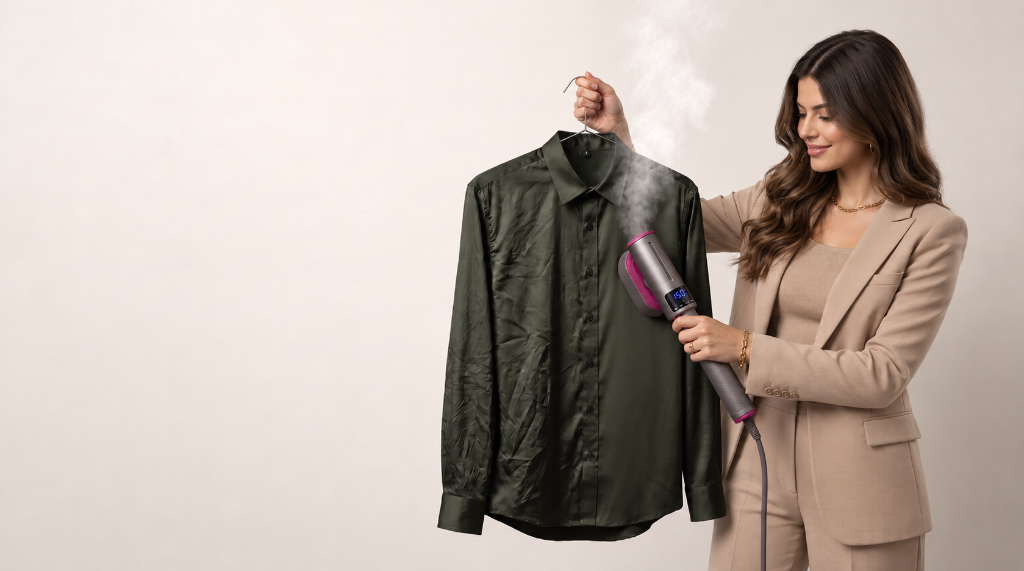
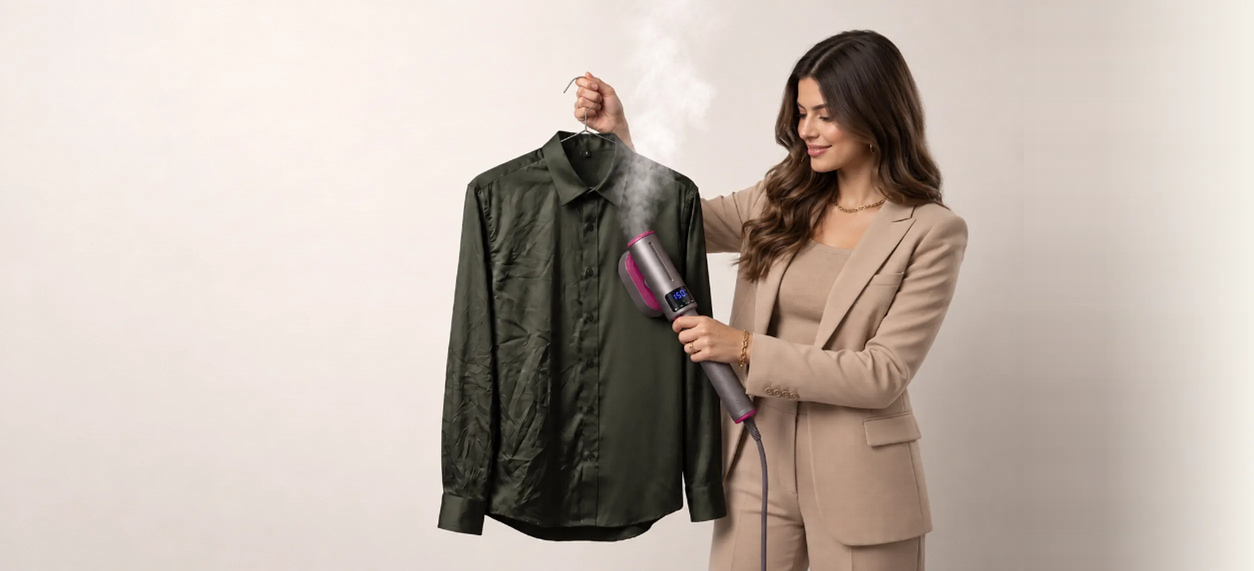
fix(hero): outpaint right studio wall by 460px to naturally position woman left with zero fading on outfit and zero right seam

diff --git a/src/components/sections/HeroSection.tsx b/src/components/sections/HeroSection.tsx
@@ -84,26 +84,26 @@ export const HeroSection: React.FC = () => {
           aria-hidden="true" 
         />
 
-        {/* Layer 3: Product Image Stage with soft integrated bilateral fade */}
+        {/* Layer 3: Product Image Stage with clean left fade and solid extended studio background on the right */}
         <div 
-          className="pointer-events-none absolute right-0 top-0 bottom-0 w-full lg:w-[61%] xl:w-[57%] 2xl:w-[54%] z-10 hidden lg:flex items-center justify-end overflow-hidden"
+          className="pointer-events-none absolute right-0 top-0 bottom-0 w-full lg:w-[60%] xl:w-[56%] 2xl:w-[53%] z-10 hidden lg:flex items-center justify-end overflow-hidden"
           style={{
-            maskImage: 'linear-gradient(to right, transparent 0%, rgba(0,0,0,0.4) 8%, black 22%, black 86%, rgba(0,0,0,0.4) 96%, transparent 100%)',
-            WebkitMaskImage: 'linear-gradient(to right, transparent 0%, rgba(0,0,0,0.4) 8%, black 22%, black 86%, rgba(0,0,0,0.4) 96%, transparent 100%)',
+            maskImage: 'linear-gradient(to right, transparent 0%, rgba(0,0,0,0.5) 12%, black 28%)',
+            WebkitMaskImage: 'linear-gradient(to right, transparent 0%, rgba(0,0,0,0.5) 12%, black 28%)',
           }}
         >
-          <picture className="w-[calc(100%+6rem)] lg:w-[calc(100%+8rem)] xl:w-[calc(100%+10rem)] 2xl:w-[calc(100%+12rem)] h-full block transform scale-[1.06] -translate-x-5 lg:-translate-x-8 xl:-translate-x-12 2xl:-translate-x-16 origin-[82%_45%]">
+          <picture className="w-full h-full block transform scale-[1.05] origin-[70%_45%]">
             <source 
-              srcSet="/images/hero-steamer-editorial.webp 2048w, /images/hero-steamer-editorial-1024.webp 1024w" 
-              sizes="(max-width: 1023px) 100vw, 58vw"
+              srcSet="/images/hero-steamer-editorial.webp 2508w, /images/hero-steamer-editorial-1024.webp 1254w" 
+              sizes="(max-width: 1023px) 100vw, 56vw"
               type="image/webp" 
             />
             <img 
               src="/images/hero-steamer-editorial.jpg" 
-              srcSet="/images/hero-steamer-editorial.jpg 2048w, /images/hero-steamer-editorial-1024.jpg 1024w"
-              sizes="(max-width: 1023px) 100vw, 58vw"
+              srcSet="/images/hero-steamer-editorial.jpg 2508w, /images/hero-steamer-editorial-1024.jpg 1254w"
+              sizes="(max-width: 1023px) 100vw, 56vw"
               alt="Mujer alisando camisa en gancho con la plancha de vapor portátil LISO con vapor continuo a 150 °C" 
-              className="w-full h-full object-cover object-[92%_center] transition-opacity duration-1000 ease-mech-s"
+              className="w-full h-full object-cover object-[98%_center] transition-opacity duration-1000 ease-mech-s"
               style={{
                 filter: 'brightness(1.01) contrast(1.01)',
                 ...(!prefersReduced ? {
@@ -115,15 +115,9 @@ export const HeroSection: React.FC = () => {
             />
           </picture>
 
-          {/* Gentle left feathering gradient overlay blending into hero background */}
+          {/* Gentle left feathering gradient overlay blending seamlessly into hero background */}
           <div 
-            className="absolute inset-y-0 left-0 w-44 xl:w-56 bg-gradient-to-r from-[#F5F1EA] via-[#F5F1EA]/60 to-transparent pointer-events-none z-20" 
-            aria-hidden="true"
-          />
-
-          {/* Gentle right feathering gradient overlay seamlessly dissolving right edge into hero background */}
-          <div 
-            className="absolute inset-y-0 right-0 w-28 xl:w-40 bg-gradient-to-l from-[#F5F1EA] via-[#F5F1EA]/60 to-transparent pointer-events-none z-20" 
+            className="absolute inset-y-0 left-0 w-40 xl:w-52 bg-gradient-to-r from-[#F5F1EA] via-[#F5F1EA]/50 to-transparent pointer-events-none z-20" 
             aria-hidden="true"
           />
         </div>
@@ -277,16 +271,16 @@ export const HeroSection: React.FC = () => {
             <div className="relative aspect-[4/3] w-full overflow-hidden bg-[#F5F1EA]">
               <picture className="w-full h-full">
                 <source 
-                  srcSet="/images/hero-steamer-editorial.webp 2048w, /images/hero-steamer-editorial-1024.webp 1024w" 
+                  srcSet="/images/hero-steamer-editorial.webp 2508w, /images/hero-steamer-editorial-1024.webp 1254w" 
                   sizes="100vw"
                   type="image/webp" 
                 />
                 <img 
                   src="/images/hero-steamer-editorial.jpg" 
-                  srcSet="/images/hero-steamer-editorial.jpg 2048w, /images/hero-steamer-editorial-1024.jpg 1024w"
+                  srcSet="/images/hero-steamer-editorial.jpg 2508w, /images/hero-steamer-editorial-1024.jpg 1254w"
                   sizes="100vw"
                   alt="Mujer alisando camisa en gancho con la plancha de vapor portátil LISO con vapor continuo a 150 °C" 
-                  className="w-full h-full object-cover object-[95%_center]"
+                  className="w-full h-full object-cover object-[82%_center]"
                   style={{
                     filter: 'brightness(1.01) contrast(1.01)'
                   }}
